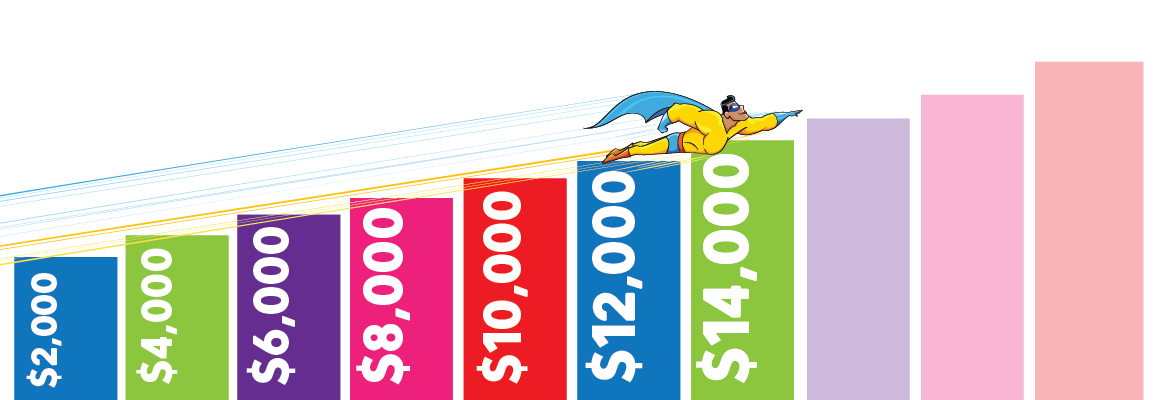
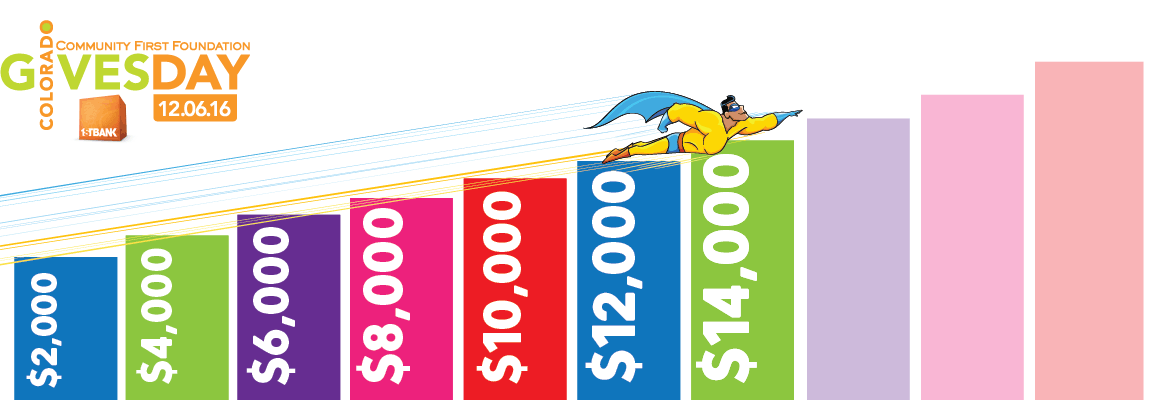
tweaks and new heading

Changed region(s): [[0.0, 0.06, 0.2176, 0.36]]

diff --git a/index.html b/index.html
@@ -251,11 +251,12 @@ height="0" width="0" style="display:none;visibility:hidden"></iframe>
   <!--remove for now <div id="starttour" class="pointer hidden-xs">
     <div class="row white text-uppercase text-center alert bg-salmon">Welcome to DCL.org. Get started with a quick tour!</div>
   </div> -->
-  <div class="row border-top">
+  <div class="row border-top padding-top-15 padding-bottom-30">
     <div class="container">
-      <div class="margin-bottom-30"><a href="https://www.coloradogives.org/index.php?section=organizations&action=newDonation&fwID=36788" target="_blank"><img class="img-responsive" src="70.png"></a> <h3 class="text-center">Today is <a href="https://www.coloradogives.org/index.php?section=organizations&action=newDonation&fwID=36788" target="_blank">Colorado Gives Day!</a> Use your giving superpower to add magic to our community through a donation to the DCL Foundation. </h3></div>
+      <div class="margin-bottom-30"><a href="https://www.coloradogives.org/index.php?section=organizations&action=newDonation&fwID=36788" target="_blank"><img class="img-responsive" src="70.png"></a>
+        <h3 class="text-center">Thanks for your support of the DCL Foundation! Colorado Gives Day isn't over yet. Can you help us reach our goal of $20,000? Your support helps us introduce the magic of reading to 95,000 kids annually through Storytime.</h3>
+      </div>
       <div class="text-center"> <a href="https://www.coloradogives.org/index.php?section=organizations&action=newDonation&fwID=36788" target="_blank" class="text-uppercase btn btn-primary">Please Donate Now!</a> <a href="../colorado-gives-day" class="margin-left-10 text-uppercase">Learn More »</a></div>
-      <div class="margin-top-30"><a href="https://www.coloradogives.org/index.php?section=organizations&action=newDonation&fwID=36788" target="_blank"><img class="center-block" src="colorado-gives-day-logo.png"></a></div>
     </div>
   </div>
   <div class="scroll-indicator center-block"><i class="fa fa-chevron-down"></i></div>
